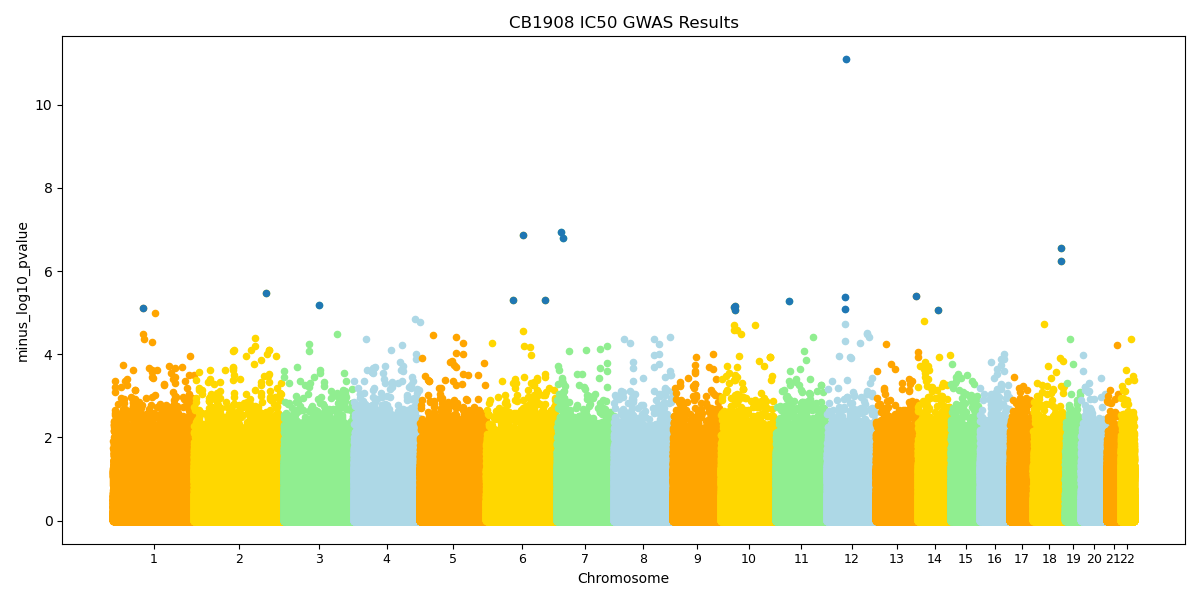
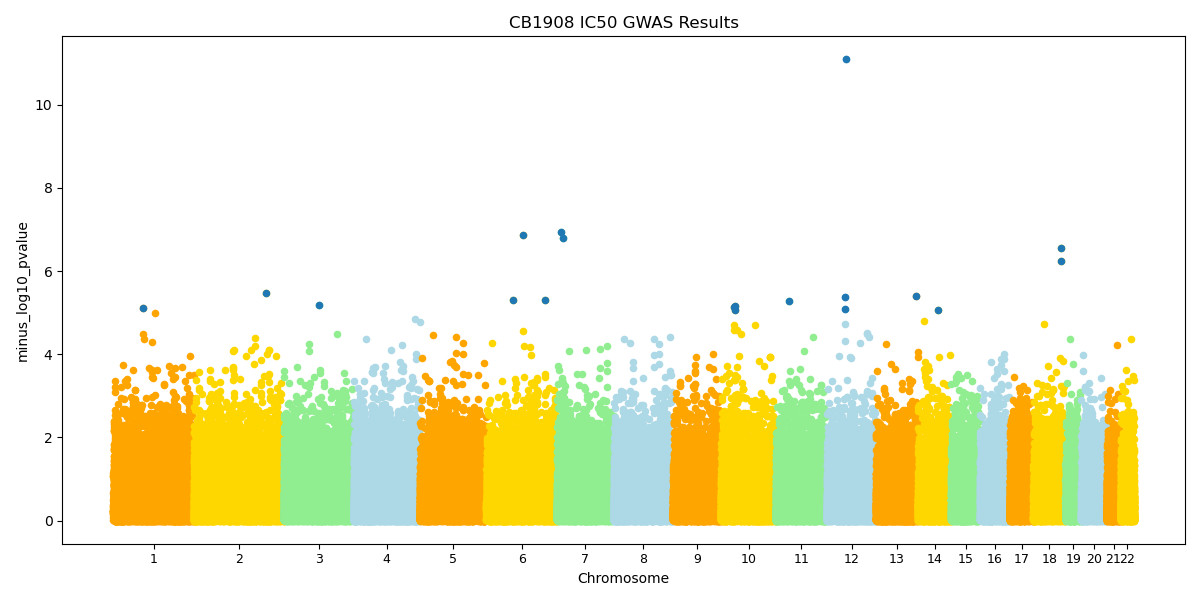
fixed it so im not plotting 10 points for each snp

Changed region(s): [[0.7092, 0.69, 0.74, 0.72]]

diff --git a/week4-homework/manhattan.py b/week4-homework/manhattan.py
@@ -9,6 +9,12 @@ df_CB = pd.read_csv('CB1908_IC50_gwas_results.assoc.linear',
 df_GS = pd.read_csv('GS451_IC50_gwas_results.assoc.linear', 
 	delim_whitespace=True)
 
+# only care about actual genotypes not covariate p-values
+
+df_CB = df_CB[df_CB['TEST'] == 'ADD']
+df_GS = df_CB[df_CB['TEST'] == 'ADD']
+
+
 titles = ['CB1908 IC50 GWAS Results', 'GS451 IC50 GWAS Results']
 
 for i, df in enumerate([df_CB, df_GS]):
